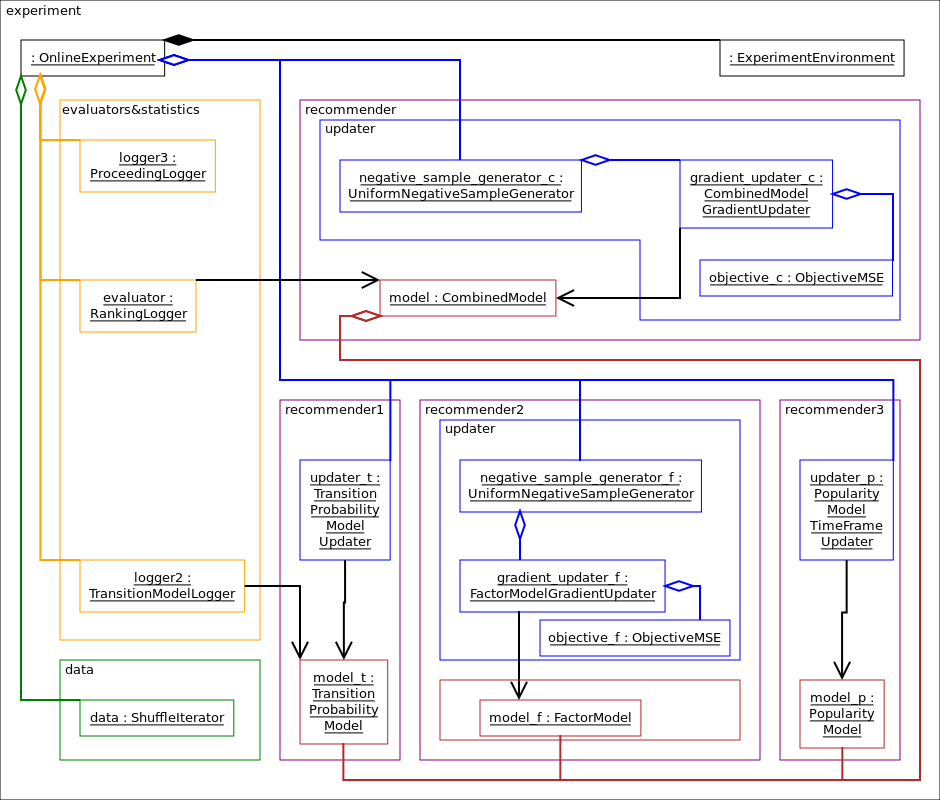
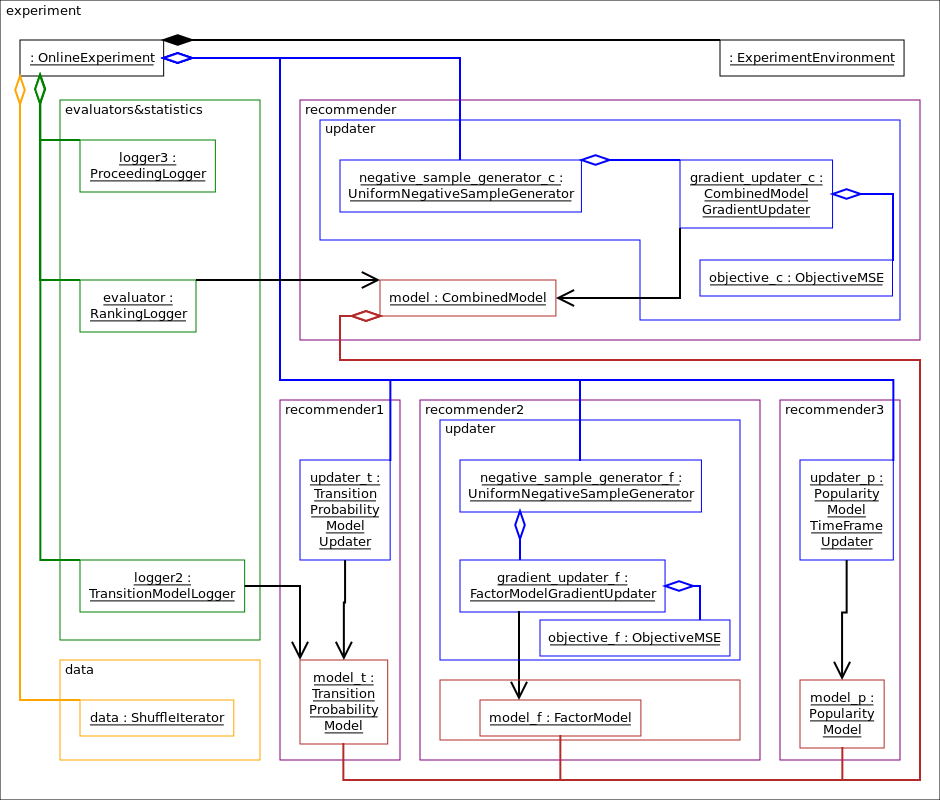
anatomy_of_exp: fix figure color

diff --git a/docs/source/alpenglow.cpp.rst b/docs/source/alpenglow.cpp.rst
@@ -260,6 +260,18 @@ This is the utils header file.
     :show-inheritance:
 
 
+.. autoclass:: alpenglow.cpp.RankComputerParameters
+    :members:
+    :undoc-members:
+    :show-inheritance:
+
+
+.. autoclass:: alpenglow.cpp.RankComputer
+    :members:
+    :undoc-members:
+    :show-inheritance:
+
+
 .. autoclass:: alpenglow.cpp.Bias
     :members:
     :undoc-members:
@@ -513,6 +525,12 @@ This is the loggers header file.
 
 
 .. autoclass:: alpenglow.cpp.OnlinePredictor
+    :members:
+    :undoc-members:
+    :show-inheritance:
+
+
+.. autoclass:: alpenglow.cpp.MemoryUsageLogger
     :members:
     :undoc-members:
     :show-inheritance:
@@ -964,15 +982,3 @@ Ranking
 -------
 This is the ranking header file.
 
-
-
-.. autoclass:: alpenglow.cpp.RankComputerParameters
-    :members:
-    :undoc-members:
-    :show-inheritance:
-
-
-.. autoclass:: alpenglow.cpp.RankComputer
-    :members:
-    :undoc-members:
-    :show-inheritance:
